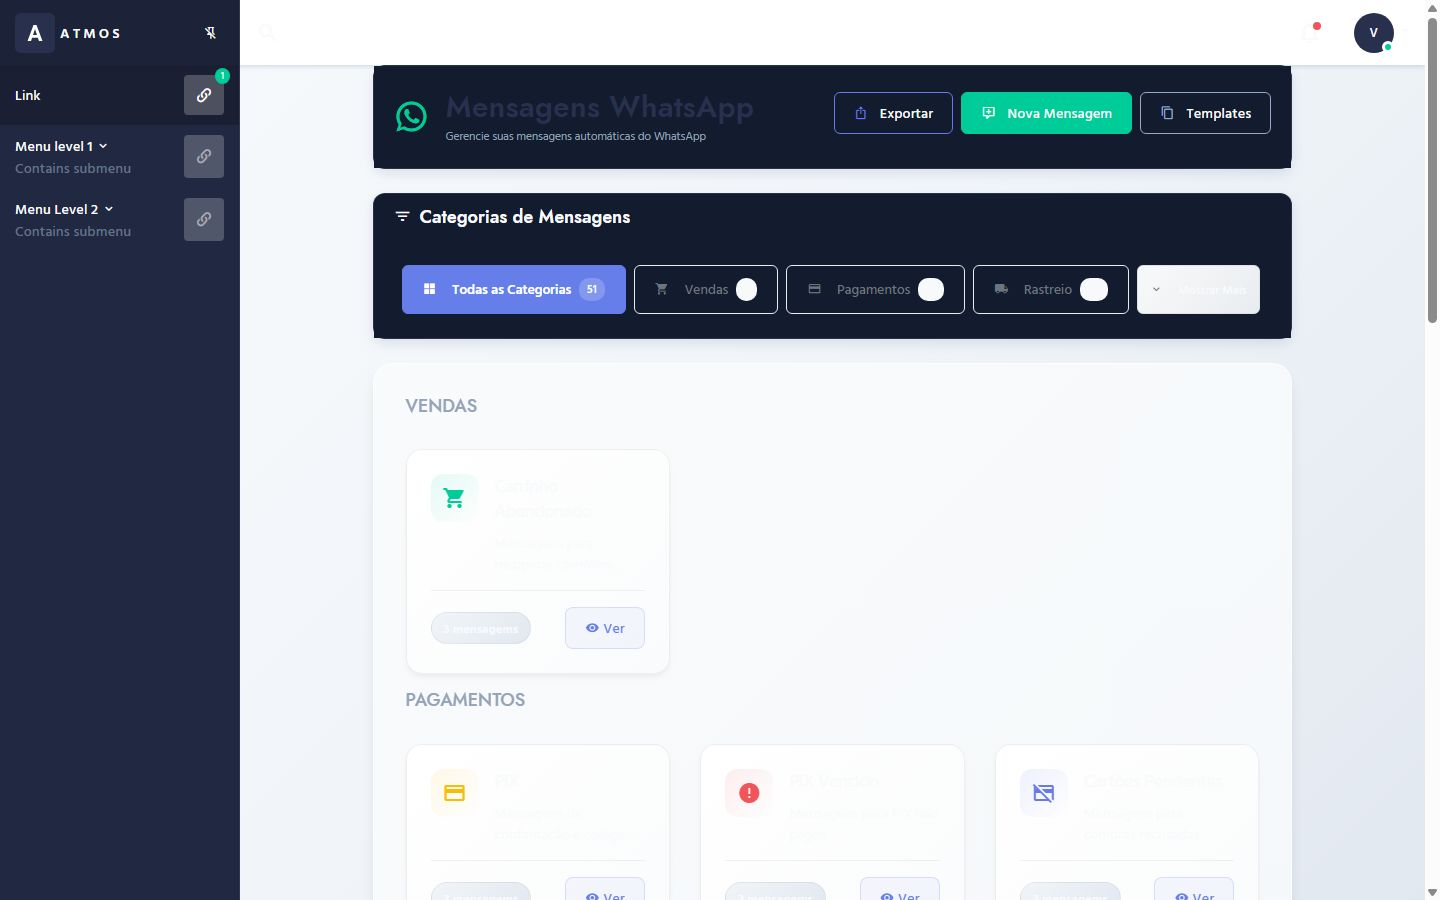
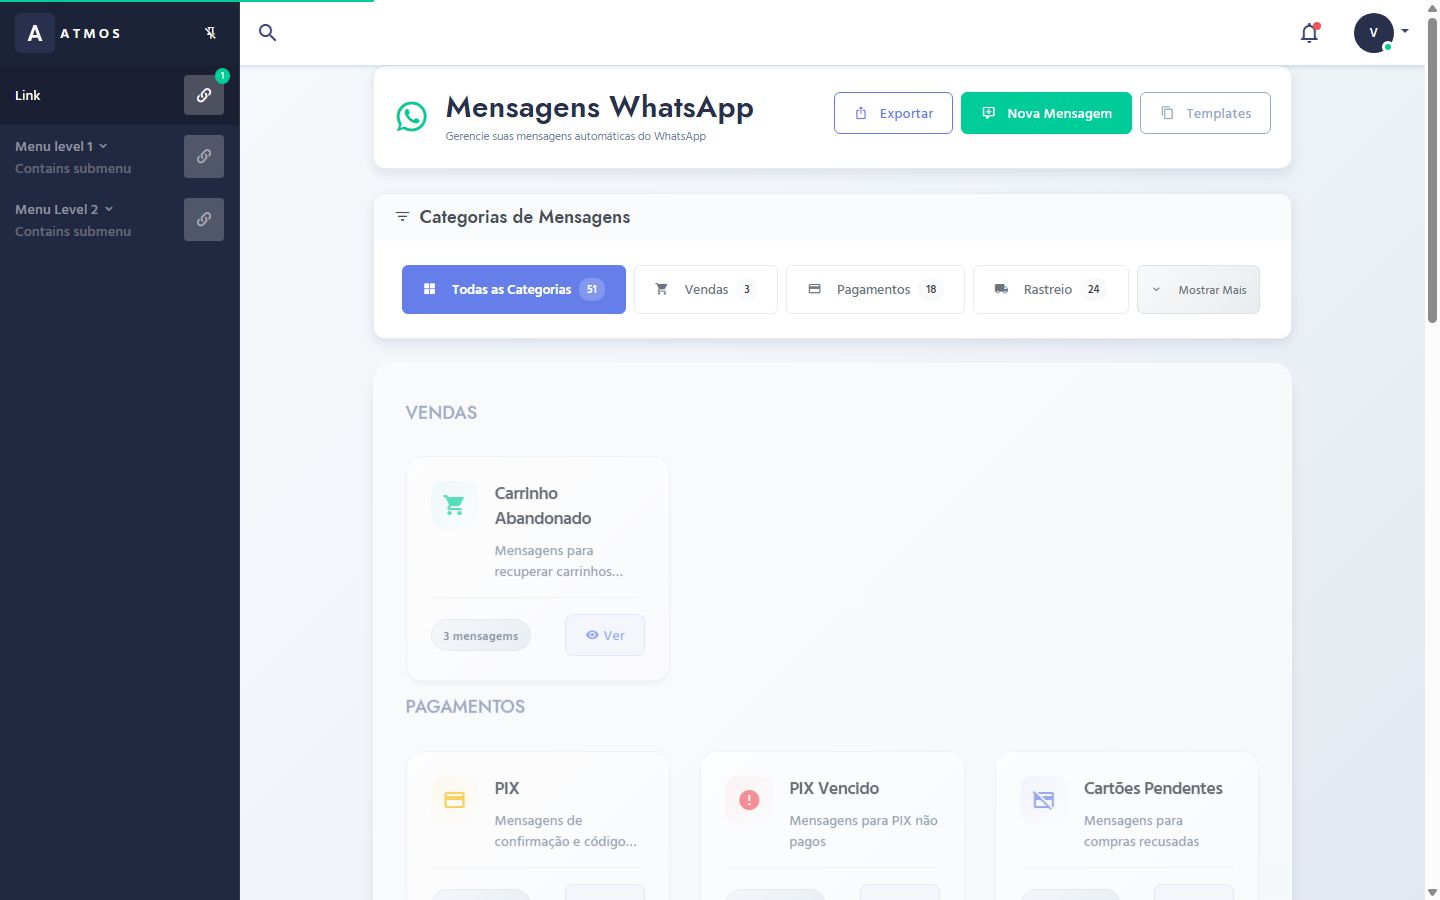
revert: restore 100% original untouched HTML and CSS files for all UnicoDrop screens

diff --git a/Dashboards/Financeiro Dashboard.html b/Dashboards/Financeiro Dashboard.html
@@ -9,8 +9,8 @@
     <title>Atmos Admin Panel - Dashboard Financeiro</title>
     <link rel="icon" type="image/x-icon" href="../assets/img/logo.png"/>
     <link rel="icon" href="../assets/img/logo.png" type="image/png" sizes="16x16">
-    
-    
+    <link rel="stylesheet" href="../assets/vendor/pace/pace.css">
+    <script src="../assets/vendor/pace/pace.min.js"></script>
     <!--vendors-->
     <link rel="stylesheet" type="text/css" href="../assets/vendor/bootstrap-datepicker/css/bootstrap-datepicker3.min.css">
     <link rel="stylesheet" type="text/css" href="../assets/vendor/jquery-scrollbar/jquery.scrollbar.css">
@@ -28,21 +28,6 @@
     <script src="../assets/vendor/apexchart/apexcharts.min.js"></script>
 
     <style>
-    body {
-        background-color: #f4f7fc !important;
-        color: #1e293b !important;
-    }
-    h1, h2, h3, h4, h5, h6, p, span, div, td, th, label, .card-title {
-        color: #0f172a !important;
-    }
-    .text-muted, small {
-        color: #64748b !important;
-    }
-    .card {
-        background-color: #ffffff !important;
-        box-shadow: 0 4px 12px rgba(0, 0, 0, 0.05) !important;
-        border: 1px solid #e2e8f0 !important;
-    }
     .financial-dashboard {
         position: relative;
     }
@@ -1050,23 +1035,6 @@
         }
     }
     </style>
-
-    <style id="FORCE_CONTRAST">
-    body, html { background-color: #0b0f19 !important; color: #f8fafc !important; }
-    .card { background-color: #131b2e !important; border: 1px solid #1e293b !important; color: #f8fafc !important; }
-    h1, h2, h3, h4, h5, h6, p, span, td, th, div, label, a, .card-title, .menu-name { color: #f8fafc !important; }
-    .text-muted, small { color: #94a3b8 !important; }
-    .bg-white { background-color: #131b2e !important; }
-    </style>
-    
-
-                    <style id="FORCE_CARD_STYLE">
-                    body { background-color: #0b0f19 !important; color: #f8fafc !important; }
-                    .card, .card-body, .card-header { background-color: #131b2e !important; color: #f8fafc !important; border-color: rgba(255,255,255,0.1) !important; }
-                    h1, h2, h3, h4, h5, h6, p, span, div, td, th, label, a, .card-title, .menu-name, .menu-link { color: #f8fafc !important; }
-                    .text-muted, small, .menu-info { color: #94a3b8 !important; }
-                    </style>
-                    
 </head>
 
 <body class="sidebar-pinned">

diff --git a/Configuracoes_Experiencia/Config ADS.html b/Configuracoes_Experiencia/Config ADS.html
@@ -9,8 +9,8 @@
 <title>Atmos Admin Panel - Dashboard de Ads</title>
 <link rel="icon" type="image/x-icon" href="../assets/img/logo.png"/>
 <link rel="icon" href="../assets/img/logo.png" type="image/png" sizes="16x16">
-
-
+<link rel="stylesheet" href="../assets/vendor/pace/pace.css">
+<script src="../assets/vendor/pace/pace.min.js"></script>
 <!--vendors-->
 <link rel="stylesheet" type="text/css" href="../assets/vendor/bootstrap-datepicker/css/bootstrap-datepicker3.min.css">
 <link rel="stylesheet" type="text/css" href="../assets/vendor/jquery-scrollbar/jquery.scrollbar.css">
@@ -966,14 +966,6 @@
         }
     }
 </style>
-
-                    <style id="FORCE_CARD_STYLE">
-                    body { background-color: #0b0f19 !important; color: #f8fafc !important; }
-                    .card, .card-body, .card-header { background-color: #131b2e !important; color: #f8fafc !important; border-color: rgba(255,255,255,0.1) !important; }
-                    h1, h2, h3, h4, h5, h6, p, span, div, td, th, label, a, .card-title, .menu-name, .menu-link { color: #f8fafc !important; }
-                    .text-muted, small, .menu-info { color: #94a3b8 !important; }
-                    </style>
-                    
 </head>
 <!--body with default sidebar pinned -->
 <body class="sidebar-pinned">
@@ -2807,15 +2799,7 @@ function imprimirTabela() {
                         .header { page-break-inside: avoid; }
                     }
                 </style>
-            
-                    <style id="FORCE_CARD_STYLE">
-                    body { background-color: #0b0f19 !important; color: #f8fafc !important; }
-                    .card, .card-body, .card-header { background-color: #131b2e !important; color: #f8fafc !important; border-color: rgba(255,255,255,0.1) !important; }
-                    h1, h2, h3, h4, h5, h6, p, span, div, td, th, label, a, .card-title, .menu-name, .menu-link { color: #f8fafc !important; }
-                    .text-muted, small, .menu-info { color: #94a3b8 !important; }
-                    </style>
-                    
-</head>
+            </head>
             <body>
                 <div class="header">
                     <h1>Dashboard de Anúncios</h1>

diff --git a/Configuracoes_Experiencia/inicio Com Onboard Botão.html b/Configuracoes_Experiencia/inicio Com Onboard Botão.html
@@ -9,8 +9,8 @@
 <title>Atmos Admin Panel- Bootstrap 4 Based Admin Panel</title>
 <link rel="icon" type="image/x-icon" href="../assets/img/logo.png"/>
 <link rel="icon" href="../assets/img/logo.png" type="image/png" sizes="16x16">
-
-
+<link rel="stylesheet" href="../assets/vendor/pace/pace.css">
+<script src="../assets/vendor/pace/pace.min.js"></script>
 <!--vendors-->
 <link rel="stylesheet" type="text/css" href="../assets/vendor/bootstrap-datepicker/css/bootstrap-datepicker3.min.css">
 <link rel="stylesheet" type="text/css" href="../assets/vendor/jquery-scrollbar/jquery.scrollbar.css">
@@ -7263,15 +7263,7 @@ document.addEventListener('DOMContentLoaded', function() {
 
 <!--Bootstrap + atmos Admin CSS-->
 <link rel="stylesheet" type="text/css" href="../assets/css/atmos.min.css">
-  
-                    <style id="FORCE_CARD_STYLE">
-                    body { background-color: #0b0f19 !important; color: #f8fafc !important; }
-                    .card, .card-body, .card-header { background-color: #131b2e !important; color: #f8fafc !important; border-color: rgba(255,255,255,0.1) !important; }
-                    h1, h2, h3, h4, h5, h6, p, span, div, td, th, label, a, .card-title, .menu-name, .menu-link { color: #f8fafc !important; }
-                    .text-muted, small, .menu-info { color: #94a3b8 !important; }
-                    </style>
-                    
-</head>
+  </head>
 <!--body with default sidebar pinned -->
 <body class="sidebar-pinned">
 <!--sidebar Begins-->

diff --git a/Configuracoes_Experiencia/inicio com Rolagem.html b/Configuracoes_Experiencia/inicio com Rolagem.html
@@ -9,8 +9,8 @@
 <title>Atmos Admin Panel- Bootstrap 4 Based Admin Panel</title>
 <link rel="icon" type="image/x-icon" href="../assets/img/logo.png"/>
 <link rel="icon" href="../assets/img/logo.png" type="image/png" sizes="16x16">
-
-
+<link rel="stylesheet" href="../assets/vendor/pace/pace.css">
+<script src="../assets/vendor/pace/pace.min.js"></script>
 <!--vendors-->
 <link rel="stylesheet" type="text/css" href="../assets/vendor/bootstrap-datepicker/css/bootstrap-datepicker3.min.css">
 <link rel="stylesheet" type="text/css" href="../assets/vendor/jquery-scrollbar/jquery.scrollbar.css">
@@ -7440,15 +7440,7 @@
 
 <!--Bootstrap + atmos Admin CSS-->
 <link rel="stylesheet" type="text/css" href="../assets/css/atmos.min.css">
-  
-                    <style id="FORCE_CARD_STYLE">
-                    body { background-color: #0b0f19 !important; color: #f8fafc !important; }
-                    .card, .card-body, .card-header { background-color: #131b2e !important; color: #f8fafc !important; border-color: rgba(255,255,255,0.1) !important; }
-                    h1, h2, h3, h4, h5, h6, p, span, div, td, th, label, a, .card-title, .menu-name, .menu-link { color: #f8fafc !important; }
-                    .text-muted, small, .menu-info { color: #94a3b8 !important; }
-                    </style>
-                    
-</head>
+  </head>
 <!--body with default sidebar pinned -->
 <body class="sidebar-pinned">
 <!--sidebar Begins-->

diff --git a/Automacao_Mensageria/WhatsApp Envios.html b/Automacao_Mensageria/WhatsApp Envios.html
@@ -9,8 +9,8 @@
 <title>Atmos Admin Panel- Bootstrap 4 Based Admin Panel</title>
 <link rel="icon" type="image/x-icon" href="../assets/img/logo.png"/>
 <link rel="icon" href="../assets/img/logo.png" type="image/png" sizes="16x16">
-
-
+<link rel="stylesheet" href="../assets/vendor/pace/pace.css">
+<script src="../assets/vendor/pace/pace.min.js"></script>
 <!--vendors-->
 <link rel="stylesheet" type="text/css" href="../assets/vendor/bootstrap-datepicker/css/bootstrap-datepicker3.min.css">
 <link rel="stylesheet" type="text/css" href="../assets/vendor/jquery-scrollbar/jquery.scrollbar.css">
@@ -25,14 +25,6 @@
 <!--Bootstrap + atmos Admin CSS-->
 <link rel="stylesheet" type="text/css" href="../assets/css/atmos.min.css">
 <!-- Additional library for page -->
-
-                    <style id="FORCE_CARD_STYLE">
-                    body { background-color: #0b0f19 !important; color: #f8fafc !important; }
-                    .card, .card-body, .card-header { background-color: #131b2e !important; color: #f8fafc !important; border-color: rgba(255,255,255,0.1) !important; }
-                    h1, h2, h3, h4, h5, h6, p, span, div, td, th, label, a, .card-title, .menu-name, .menu-link { color: #f8fafc !important; }
-                    .text-muted, small, .menu-info { color: #94a3b8 !important; }
-                    </style>
-                    
 </head>
 <!--body with default sidebar pinned -->
 <body class="sidebar-pinned">

diff --git a/Dashboards/Dashboard Google Atualizado.html b/Dashboards/Dashboard Google Atualizado.html
@@ -9,8 +9,8 @@
 <title>Atmos Admin Panel- Bootstrap 4 Based Admin Panel</title>
 <link rel="icon" type="image/x-icon" href="../assets/img/logo.png"/>
 <link rel="icon" href="../assets/img/logo.png" type="image/png" sizes="16x16">
-
-
+<link rel="stylesheet" href="../assets/vendor/pace/pace.css">
+<script src="../assets/vendor/pace/pace.min.js"></script>
 <!--vendors-->
 <link rel="stylesheet" type="text/css" href="../assets/vendor/bootstrap-datepicker/css/bootstrap-datepicker3.min.css">
 <link rel="stylesheet" type="text/css" href="../assets/vendor/jquery-scrollbar/jquery.scrollbar.css">
@@ -25,14 +25,6 @@
 <!--Bootstrap + atmos Admin CSS-->
 <link rel="stylesheet" type="text/css" href="../assets/css/atmos.min.css">
 <!-- Additional library for page -->
-
-                    <style id="FORCE_CARD_STYLE">
-                    body { background-color: #0b0f19 !important; color: #f8fafc !important; }
-                    .card, .card-body, .card-header { background-color: #131b2e !important; color: #f8fafc !important; border-color: rgba(255,255,255,0.1) !important; }
-                    h1, h2, h3, h4, h5, h6, p, span, div, td, th, label, a, .card-title, .menu-name, .menu-link { color: #f8fafc !important; }
-                    .text-muted, small, .menu-info { color: #94a3b8 !important; }
-                    </style>
-                    
 </head>
 <!--body with default sidebar pinned -->
 <body class="sidebar-pinned">

diff --git a/Dashboards/Dashboard WhatsApp.html b/Dashboards/Dashboard WhatsApp.html
@@ -9,8 +9,8 @@
 <title>Atmos Admin Panel- Bootstrap 4 Based Admin Panel</title>
 <link rel="icon" type="image/x-icon" href="../assets/img/logo.png"/>
 <link rel="icon" href="../assets/img/logo.png" type="image/png" sizes="16x16">
-
-
+<link rel="stylesheet" href="../assets/vendor/pace/pace.css">
+<script src="../assets/vendor/pace/pace.min.js"></script>
 <!--vendors-->
 <link rel="stylesheet" type="text/css" href="../assets/vendor/bootstrap-datepicker/css/bootstrap-datepicker3.min.css">
 <link rel="stylesheet" type="text/css" href="../assets/vendor/jquery-scrollbar/jquery.scrollbar.css">
@@ -25,14 +25,6 @@
 <!--Bootstrap + atmos Admin CSS-->
 <link rel="stylesheet" type="text/css" href="../assets/css/atmos.min.css">
 <!-- Additional library for page -->
-
-                    <style id="FORCE_CARD_STYLE">
-                    body { background-color: #0b0f19 !important; color: #f8fafc !important; }
-                    .card, .card-body, .card-header { background-color: #131b2e !important; color: #f8fafc !important; border-color: rgba(255,255,255,0.1) !important; }
-                    h1, h2, h3, h4, h5, h6, p, span, div, td, th, label, a, .card-title, .menu-name, .menu-link { color: #f8fafc !important; }
-                    .text-muted, small, .menu-info { color: #94a3b8 !important; }
-                    </style>
-                    
 </head>
 <!--body with default sidebar pinned -->
 <body class="sidebar-pinned">

diff --git a/Ecommerce_Pedidos/Lista de Produtos.html b/Ecommerce_Pedidos/Lista de Produtos.html
@@ -9,8 +9,8 @@
 <title>Atmos Admin Panel- Bootstrap 4 Based Admin Panel</title>
 <link rel="icon" type="image/x-icon" href="../assets/img/logo.png"/>
 <link rel="icon" href="../assets/img/logo.png" type="image/png" sizes="16x16">
-
-
+<link rel="stylesheet" href="../assets/vendor/pace/pace.css">
+<script src="../assets/vendor/pace/pace.min.js"></script>
 <!--vendors-->
 <link rel="stylesheet" type="text/css" href="../assets/vendor/bootstrap-datepicker/css/bootstrap-datepicker3.min.css">
 <link rel="stylesheet" type="text/css" href="../assets/vendor/jquery-scrollbar/jquery.scrollbar.css">
@@ -25,14 +25,6 @@
 <!--Bootstrap + atmos Admin CSS-->
 <link rel="stylesheet" type="text/css" href="../assets/css/atmos.min.css">
 <!-- Additional library for page -->
-
-                    <style id="FORCE_CARD_STYLE">
-                    body { background-color: #0b0f19 !important; color: #f8fafc !important; }
-                    .card, .card-body, .card-header { background-color: #131b2e !important; color: #f8fafc !important; border-color: rgba(255,255,255,0.1) !important; }
-                    h1, h2, h3, h4, h5, h6, p, span, div, td, th, label, a, .card-title, .menu-name, .menu-link { color: #f8fafc !important; }
-                    .text-muted, small, .menu-info { color: #94a3b8 !important; }
-                    </style>
-                    
 </head>
 <!--body with default sidebar pinned -->
 <body class="sidebar-pinned">

diff --git a/Ecommerce_Pedidos/Lista Carrinho.html b/Ecommerce_Pedidos/Lista Carrinho.html
@@ -9,8 +9,8 @@
 <title>Atmos Admin Panel- Bootstrap 4 Based Admin Panel</title>
 <link rel="icon" type="image/x-icon" href="../assets/img/logo.png"/>
 <link rel="icon" href="../assets/img/logo.png" type="image/png" sizes="16x16">
-
-
+<link rel="stylesheet" href="../assets/vendor/pace/pace.css">
+<script src="../assets/vendor/pace/pace.min.js"></script>
 <!--vendors-->
 <link rel="stylesheet" type="text/css" href="../assets/vendor/bootstrap-datepicker/css/bootstrap-datepicker3.min.css">
 <link rel="stylesheet" type="text/css" href="../assets/vendor/jquery-scrollbar/jquery.scrollbar.css">
@@ -566,14 +566,6 @@
         margin-top: 0.5rem !important;
     }
 </style>
-
-                    <style id="FORCE_CARD_STYLE">
-                    body { background-color: #0b0f19 !important; color: #f8fafc !important; }
-                    .card, .card-body, .card-header { background-color: #131b2e !important; color: #f8fafc !important; border-color: rgba(255,255,255,0.1) !important; }
-                    h1, h2, h3, h4, h5, h6, p, span, div, td, th, label, a, .card-title, .menu-name, .menu-link { color: #f8fafc !important; }
-                    .text-muted, small, .menu-info { color: #94a3b8 !important; }
-                    </style>
-                    
 </head>
 <!--body with default sidebar pinned -->
 <body class="sidebar-pinned">

diff --git a/Ecommerce_Pedidos/Lista de PEDIDOS.html b/Ecommerce_Pedidos/Lista de PEDIDOS.html
@@ -9,8 +9,8 @@
 <title>Atmos Admin Panel- Bootstrap 4 Based Admin Panel</title>
 <link rel="icon" type="image/x-icon" href="../assets/img/logo.png"/>
 <link rel="icon" href="../assets/img/logo.png" type="image/png" sizes="16x16">
-
-
+<link rel="stylesheet" href="../assets/vendor/pace/pace.css">
+<script src="../assets/vendor/pace/pace.min.js"></script>
 <!--vendors-->
 <link rel="stylesheet" type="text/css" href="../assets/vendor/bootstrap-datepicker/css/bootstrap-datepicker3.min.css">
 <link rel="stylesheet" type="text/css" href="../assets/vendor/jquery-scrollbar/jquery.scrollbar.css">
@@ -566,14 +566,6 @@
         margin-top: 0.5rem !important;
     }
 </style>
-
-                    <style id="FORCE_CARD_STYLE">
-                    body { background-color: #0b0f19 !important; color: #f8fafc !important; }
-                    .card, .card-body, .card-header { background-color: #131b2e !important; color: #f8fafc !important; border-color: rgba(255,255,255,0.1) !important; }
-                    h1, h2, h3, h4, h5, h6, p, span, div, td, th, label, a, .card-title, .menu-name, .menu-link { color: #f8fafc !important; }
-                    .text-muted, small, .menu-info { color: #94a3b8 !important; }
-                    </style>
-                    
 </head>
 <!--body with default sidebar pinned -->
 <body class="sidebar-pinned">

diff --git a/Automacao_Mensageria/Mensagem E-mail.html b/Automacao_Mensageria/Mensagem E-mail.html
@@ -10,8 +10,8 @@
     <title>Atmos Admin Panel- Bootstrap 4 Based Admin Panel</title>
     <link rel="icon" type="image/x-icon" href="../assets/img/logo.png" />
     <link rel="icon" href="../assets/img/logo.png" type="image/png" sizes="16x16">
-    
-    
+    <link rel="stylesheet" href="../assets/vendor/pace/pace.css">
+    <script src="../assets/vendor/pace/pace.min.js"></script>
     <!--vendors-->
     <link rel="stylesheet" type="text/css" href="../assets/vendor/bootstrap-datepicker/css/bootstrap-datepicker3.min.css">
     <link rel="stylesheet" type="text/css" href="../assets/vendor/jquery-scrollbar/jquery.scrollbar.css">
@@ -1646,14 +1646,6 @@
             }
         }
     </style>
-
-                    <style id="FORCE_CARD_STYLE">
-                    body { background-color: #0b0f19 !important; color: #f8fafc !important; }
-                    .card, .card-body, .card-header { background-color: #131b2e !important; color: #f8fafc !important; border-color: rgba(255,255,255,0.1) !important; }
-                    h1, h2, h3, h4, h5, h6, p, span, div, td, th, label, a, .card-title, .menu-name, .menu-link { color: #f8fafc !important; }
-                    .text-muted, small, .menu-info { color: #94a3b8 !important; }
-                    </style>
-                    
 </head>
 <!--body with default sidebar pinned -->
 

diff --git a/Automacao_Mensageria/Mensagem WhatsApp.html b/Automacao_Mensageria/Mensagem WhatsApp.html
@@ -10,8 +10,8 @@
     <title>Atmos Admin Panel- Bootstrap 4 Based Admin Panel</title>
     <link rel="icon" type="image/x-icon" href="../assets/img/logo.png" />
     <link rel="icon" href="../assets/img/logo.png" type="image/png" sizes="16x16">
-    
-    
+    <link rel="stylesheet" href="../assets/vendor/pace/pace.css">
+    <script src="../assets/vendor/pace/pace.min.js"></script>
     <!--vendors-->
     <link rel="stylesheet" type="text/css" href="../assets/vendor/bootstrap-datepicker/css/bootstrap-datepicker3.min.css">
     <link rel="stylesheet" type="text/css" href="../assets/vendor/jquery-scrollbar/jquery.scrollbar.css">
@@ -1646,14 +1646,6 @@
             }
         }
     </style>
-
-                    <style id="FORCE_CARD_STYLE">
-                    body { background-color: #0b0f19 !important; color: #f8fafc !important; }
-                    .card, .card-body, .card-header { background-color: #131b2e !important; color: #f8fafc !important; border-color: rgba(255,255,255,0.1) !important; }
-                    h1, h2, h3, h4, h5, h6, p, span, div, td, th, label, a, .card-title, .menu-name, .menu-link { color: #f8fafc !important; }
-                    .text-muted, small, .menu-info { color: #94a3b8 !important; }
-                    </style>
-                    
 </head>
 <!--body with default sidebar pinned -->
 
